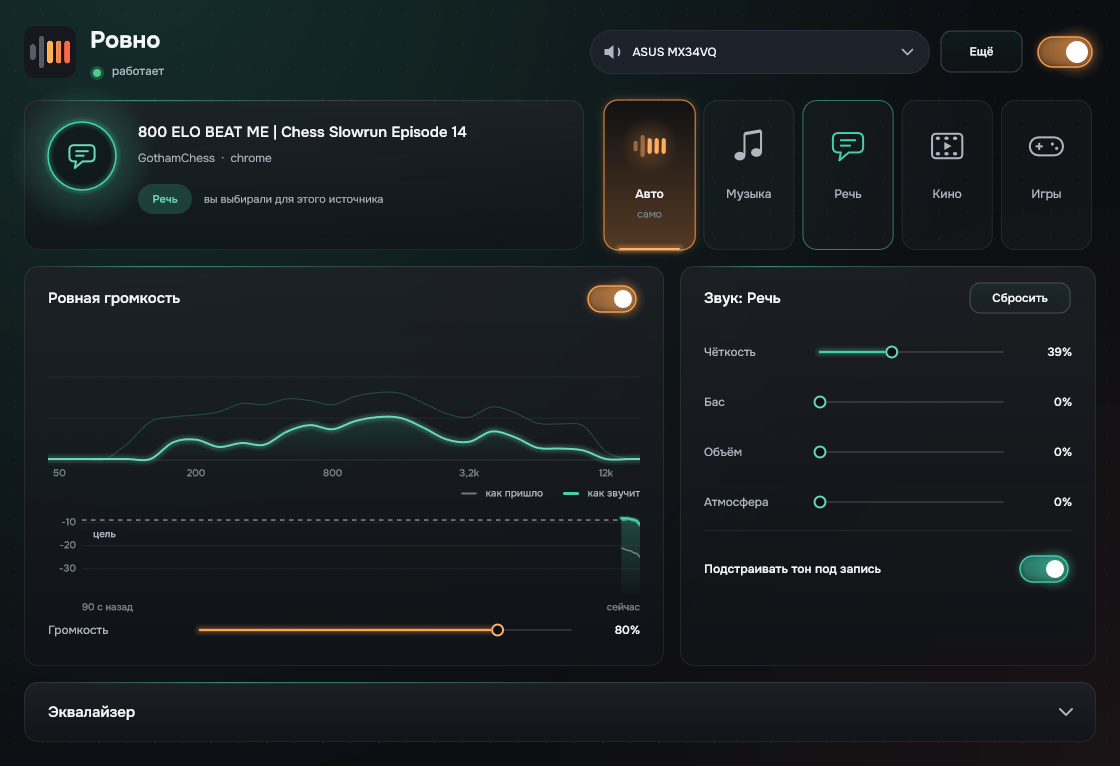
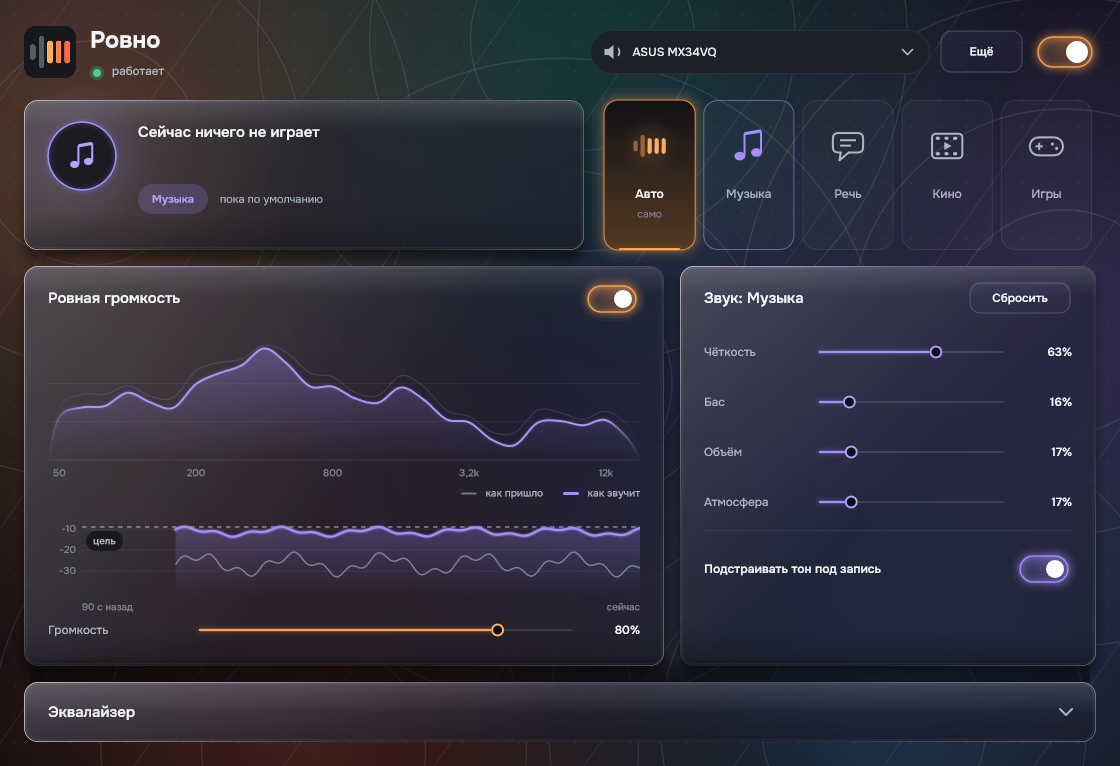
Calmer neon, spectrum tapers into the baseline with faded ends, menu rows keep air inside the panel, demo mode for README pictures

diff --git a/Source/app/MainComponent.cpp b/Source/app/MainComponent.cpp
@@ -273,7 +273,7 @@ public:
             juce::Path base;
             base.startNewSubPath (r.getX() + 16.0f, r.getBottom() - 1.0f);
             base.lineTo (r.getRight() - 16.0f, r.getBottom() - 1.0f);
-            glowStroke (g, base, pillColour.brighter (0.2f), 2.0f, 1.3f);
+            glowStroke (g, base, pillColour, 2.0f, 0.8f);
         }
         for (size_t i = 0; i < items.size(); ++i)
         {
@@ -429,18 +429,32 @@ public:
         g.setColour (juce::Colours::white.withAlpha (0.10f));
         g.fillRect (r.getX(), r.getBottom() - 0.5f, r.getWidth(), 1.0f);
 
-        // the spectrum as one smooth curve (Catmull-Rom through the third-octave points)
+        // The spectrum as one smooth curve (Catmull-Rom through the third-octave points). The curve starts and ends
+        // on the baseline at the very edges, so both ends slope down into nothing instead of being cut off.
+        const float baseY = yOf (lo);
         auto curve = [&] (const std::array<float, (size_t) kBands>& v, juce::Path& p)
         {
-            auto pt = [&] (int i) { i = juce::jlimit (0, kBands - 1, i); return juce::Point<float> (xOf (i), yOf (v[(size_t) i])); };
-            p.startNewSubPath (r.getX(), pt (0).y);
-            p.lineTo (pt (0));
-            for (int i = 0; i < kBands - 1; ++i)
+            std::vector<juce::Point<float>> pts;
+            pts.emplace_back (r.getX(), baseY);
+            for (int i = 0; i < kBands; ++i) pts.emplace_back (xOf (i), yOf (v[(size_t) i]));
+            pts.emplace_back (r.getRight(), baseY);
+            const int n = (int) pts.size();
+            auto at = [&] (int i) { return pts[(size_t) juce::jlimit (0, n - 1, i)]; };
+            p.startNewSubPath (pts.front());
+            for (int i = 0; i < n - 1; ++i)
             {
-                const auto p0 = pt (i - 1), p1 = pt (i), p2 = pt (i + 1), p3 = pt (i + 2);
+                const auto p0 = at (i - 1), p1 = at (i), p2 = at (i + 1), p3 = at (i + 2);
                 p.cubicTo (p1 + (p2 - p0) / 6.0f, p2 - (p3 - p1) / 6.0f, p2);
             }
-            p.lineTo (r.getRight(), pt (kBands - 1).y);
+        };
+        // a stroke whose colour fades to nothing at both ends
+        auto strokeFaded = [&] (const juce::Path& path, float width, juce::Colour c, float alphaMul)
+        {
+            juce::ColourGradient fade (c.withAlpha (0.0f), r.getX(), 0, c.withAlpha (0.0f), r.getRight(), 0, false);
+            fade.addColour (0.06, c.withAlpha (alphaMul));
+            fade.addColour (0.94, c.withAlpha (alphaMul));
+            g.setGradientFill (fade);
+            g.strokePath (path, juce::PathStrokeType (width, juce::PathStrokeType::curved, juce::PathStrokeType::rounded));
         };
         juce::Path line;
         curve (shown, line);
@@ -448,14 +462,19 @@ public:
         fill.lineTo (r.getRight(), r.getBottom());
         fill.lineTo (r.getX(), r.getBottom());
         fill.closeSubPath();
-        g.setGradientFill (juce::ColourGradient (base.withAlpha (live ? 0.42f : 0.12f), 0, r.getY(), base.withAlpha (0.0f), 0, r.getBottom(), false));
+        g.setGradientFill (juce::ColourGradient (base.withAlpha (live ? 0.38f : 0.10f), 0, r.getY(), base.withAlpha (0.0f), 0, r.getBottom(), false));
         g.fillPath (fill);
         // the recent top of every band, as a faint thin line
         juce::Path tops;
         curve (shownPeaks, tops);
-        g.setColour (base.withAlpha (live ? 0.28f : 0.10f));
-        g.strokePath (tops, juce::PathStrokeType (1.0f));
-        glowStroke (g, line, base.brighter (0.25f).withAlpha (live ? 1.0f : 0.4f), 2.0f, live ? 1.0f : 0.0f);
+        strokeFaded (tops, 1.0f, base, live ? 0.24f : 0.08f);
+        const juce::Colour lineColour = base.brighter (0.15f);
+        if (live)
+        {
+            strokeFaded (line, 7.0f, lineColour, 0.035f);
+            strokeFaded (line, 4.0f, lineColour, 0.07f);
+        }
+        strokeFaded (line, 2.0f, lineColour, live ? 0.95f : 0.35f);
 
         g.setColour (col::faint);
         g.setFont (font (12.5f, 500));
@@ -767,6 +786,25 @@ void styleSlider (juce::Slider& s, juce::Colour c)
 }
 } // namespace
 
+namespace
+{
+// A speech-like spectrum and a loudness history for the README pictures (never used in normal running).
+void demoFill (std::array<float, (size_t) kBands>& b, std::array<float, (size_t) kBands>& p, std::deque<std::pair<float, float>>& hist)
+{
+    for (int i = 0; i < kBands; ++i)
+    {
+        const float x = (float) i;
+        const float body = -52.0f + 34.0f * std::exp (-std::pow ((x - 9.0f) / 6.5f, 2.0f)) + 7.0f * std::sin (x * 0.9f) + 4.0f * std::sin (x * 2.1f + 1.0f);
+        b[(size_t) i] = body;
+        p[(size_t) i] = body + 5.0f + 2.0f * std::sin (x * 1.3f);
+    }
+    hist.clear();
+    for (int k = 0; k < 150; ++k)
+        hist.emplace_back (-27.0f + 4.0f * std::sin ((float) k * 0.21f) + 2.0f * std::sin ((float) k * 0.7f),
+                           -11.5f + 1.6f * std::sin ((float) k * 0.21f + 0.8f) + 0.8f * std::sin ((float) k * 0.6f));
+}
+} // namespace
+
 MainComponent::MainComponent (Controller& controller) : c (controller)
 {
     setLookAndFeel (&lnf);
@@ -870,8 +908,13 @@ void MainComponent::syncFromController()
     toneSwitch->onColour = kcCur;
     const auto tw = c.tweaks (shownKind);
     eq->set (tw.eq, s.eq, st.tone, kc);
-    spectrum->set (st.bands, st.bandPeaks, kcCur, c.enabled() && st.running);
-    graph->set (st.history, targetLufsFor (c.volume()) + s.targetOffsetDb, c.leveler() && c.enabled(), kcCur);
+    {
+        auto bands = st.bands, peaks = st.bandPeaks;
+        auto hist = st.history;
+        if (demoData) demoFill (bands, peaks, hist);
+        spectrum->set (bands, peaks, kcCur, demoData || (c.enabled() && st.running));
+        graph->set (hist, targetLufsFor (c.volume()) + s.targetOffsetDb, c.leveler() && c.enabled(), kcCur);
+    }
 
     deviceGuids.clear();
     juce::StringArray labels;
@@ -976,8 +1019,8 @@ void MainComponent::timerCallback()
         toneSwitch->onColour = kcCur;
         needPaint = true;
     }
-    spectrum->set (st.bands, st.bandPeaks, kcCur, c.enabled() && st.running);
-    if (++graphTick % 6 == 0)
+    if (! demoData) spectrum->set (st.bands, st.bandPeaks, kcCur, c.enabled() && st.running);
+    if (! demoData && ++graphTick % 6 == 0)
         graph->set (st.history, targetLufsFor (c.volume()) + c.sound (st.kind).targetOffsetDb, c.leveler() && c.enabled(), kcCur);
     if (st.kind != shownKind) syncFromController();
     static juce::String lastNow;

diff --git a/Source/app/Theme.h b/Source/app/Theme.h
@@ -209,8 +209,8 @@ inline juce::Colour& neoTint() { static juce::Colour c = col::accent; return c; 
 // Neon glow: the same path stroked wide and faint, then narrower, then the line itself.
 inline void glowStroke (juce::Graphics& g, const juce::Path& p, juce::Colour c, float width, float glow = 1.0f)
 {
-    g.setColour (c.withAlpha (0.07f * glow)); g.strokePath (p, juce::PathStrokeType (width + 9.0f, juce::PathStrokeType::curved, juce::PathStrokeType::rounded));
-    g.setColour (c.withAlpha (0.12f * glow)); g.strokePath (p, juce::PathStrokeType (width + 5.0f, juce::PathStrokeType::curved, juce::PathStrokeType::rounded));
+    g.setColour (c.withAlpha (0.035f * glow)); g.strokePath (p, juce::PathStrokeType (width + 9.0f, juce::PathStrokeType::curved, juce::PathStrokeType::rounded));
+    g.setColour (c.withAlpha (0.06f * glow)); g.strokePath (p, juce::PathStrokeType (width + 5.0f, juce::PathStrokeType::curved, juce::PathStrokeType::rounded));
     g.setColour (c); g.strokePath (p, juce::PathStrokeType (width, juce::PathStrokeType::curved, juce::PathStrokeType::rounded));
 }
 
@@ -221,14 +221,14 @@ inline void softGlow (juce::Graphics& g, const juce::Path& p, juce::Colour c, fl
     const float widths[4] = { 2.0f, 1.4f, 0.9f, 0.5f }, alphas[4] = { 0.05f, 0.07f, 0.10f, 0.14f };
     for (int i = 0; i < 4; ++i)
     {
-        g.setColour (c.withAlpha (juce::jlimit (0.0f, 1.0f, alpha * alphas[i] / 0.3f)));
+        g.setColour (c.withAlpha (juce::jlimit (0.0f, 1.0f, alpha * alphas[i] / 0.5f)));
         g.strokePath (p, juce::PathStrokeType (spread * widths[i], juce::PathStrokeType::curved, juce::PathStrokeType::rounded));
     }
 }
 
 inline void glowDot (juce::Graphics& g, juce::Point<float> c, float radius, juce::Colour colour, float strength = 1.0f)
 {
-    g.setGradientFill (juce::ColourGradient (colour.withAlpha (0.45f * strength), c.x, c.y, colour.withAlpha (0.0f), c.x + radius * 2.6f, c.y, true));
+    g.setGradientFill (juce::ColourGradient (colour.withAlpha (0.26f * strength), c.x, c.y, colour.withAlpha (0.0f), c.x + radius * 2.6f, c.y, true));
     g.fillEllipse (c.x - radius * 2.6f, c.y - radius * 2.6f, radius * 5.2f, radius * 5.2f);
 }
 

diff --git a/Source/app/MainComponent.h b/Source/app/MainComponent.h
@@ -26,7 +26,7 @@ public:
 
     // popup menus: rounded floating panel with its own soft shadow, pill highlight, tick mark
     int getMenuWindowFlags() override { return juce::ComponentPeer::windowIsSemiTransparent; }
-    int getPopupMenuBorderSize() override { return 8; }
+    int getPopupMenuBorderSize() override { return 14; }   // the panel is drawn 8 px in, so the rows have 6 px of air above and below
     void drawPopupMenuBackground (juce::Graphics&, int w, int h) override;
     void drawPopupMenuItem (juce::Graphics&, const juce::Rectangle<int>& area, bool isSeparator, bool isActive, bool isHighlighted,
                             bool isTicked, bool hasSubMenu, const juce::String& text, const juce::String& shortcut,
@@ -112,6 +112,7 @@ public:
     void setEqOpen (bool open, bool animate = false);   // animated from the UI, at once for snapshots
     int preferredHeight() const;
     static constexpr int kWidth = 1120;
+    static inline bool demoData = false;     // for pictures without sound: a made-up spectrum and loudness history (--demo)
     static inline bool hideBanner = false;   // for the README picture (--snapshot --clean)
 
     // Called by the window when the interface scale changes (the menu entry lives here).

diff --git a/Source/app/Main.cpp b/Source/app/Main.cpp
@@ -129,6 +129,7 @@ public:
             // Let the controller see the effect and what is playing, then draw and quit.
             const int wait = args.contains ("--wait") ? args[args.indexOf ("--wait") + 1].getIntValue() * 1000 : 2600;
             rv::ui::MainComponent::hideBanner = args.contains ("--clean");
+            rv::ui::MainComponent::demoData = args.contains ("--demo");
             const float snapScale = args.contains ("--scale") ? args[args.indexOf ("--scale") + 1].getFloatValue() : 1.0f;
             juce::Timer::callAfterDelay (wait, [this, snapScale, path = args[snap + 1].unquoted(), eq = args.contains ("--eq"), menu = args.contains ("--menu")]
             {

diff --git a/Source/app/QuickMenu.cpp b/Source/app/QuickMenu.cpp
@@ -233,7 +233,7 @@ void QuickMenu::paint (juce::Graphics& g)
             juce::Path base;
             base.startNewSubPath (t.getX() + 16, t.getBottom() - 1.0f);
             base.lineTo (t.getX() + 16 + (t.getWidth() - 32) * fill, t.getBottom() - 1.0f);
-            glowStroke (g, base, kc.brighter (0.2f), 2.0f, 1.3f * lit);
+            glowStroke (g, base, kc, 2.0f, 0.8f * lit);
         }
         g.setColour ((current ? kc.withAlpha (0.55f) : juce::Colours::white.withAlpha (0.09f)).withMultipliedAlpha (te * (1.0f - lit * 0.6f)));
         g.drawRoundedRectangle (t.reduced (0.5f), 14.0f, 1.0f);
